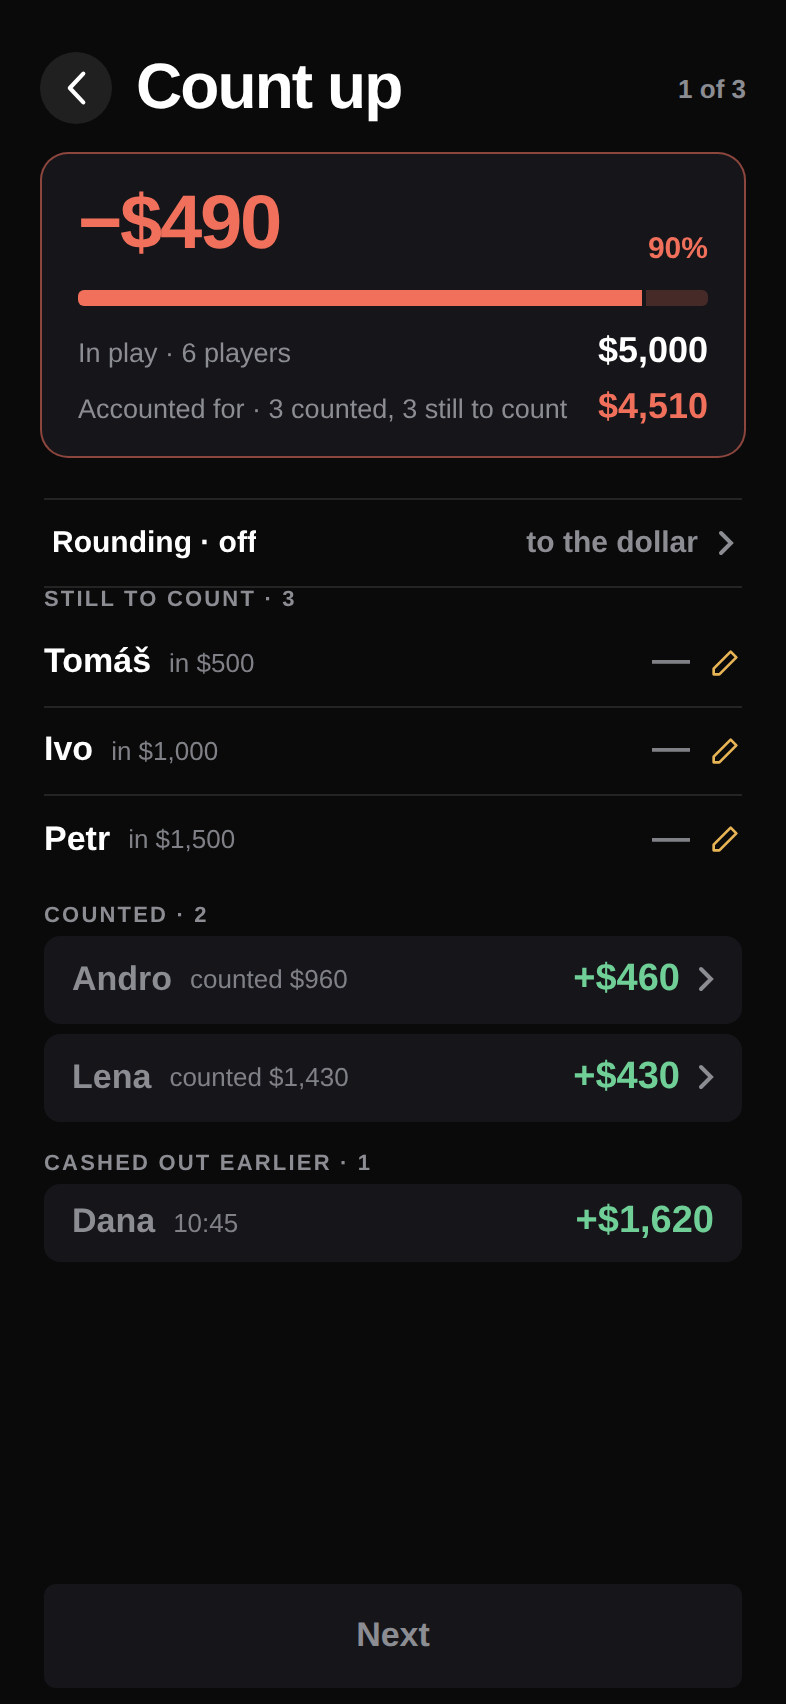
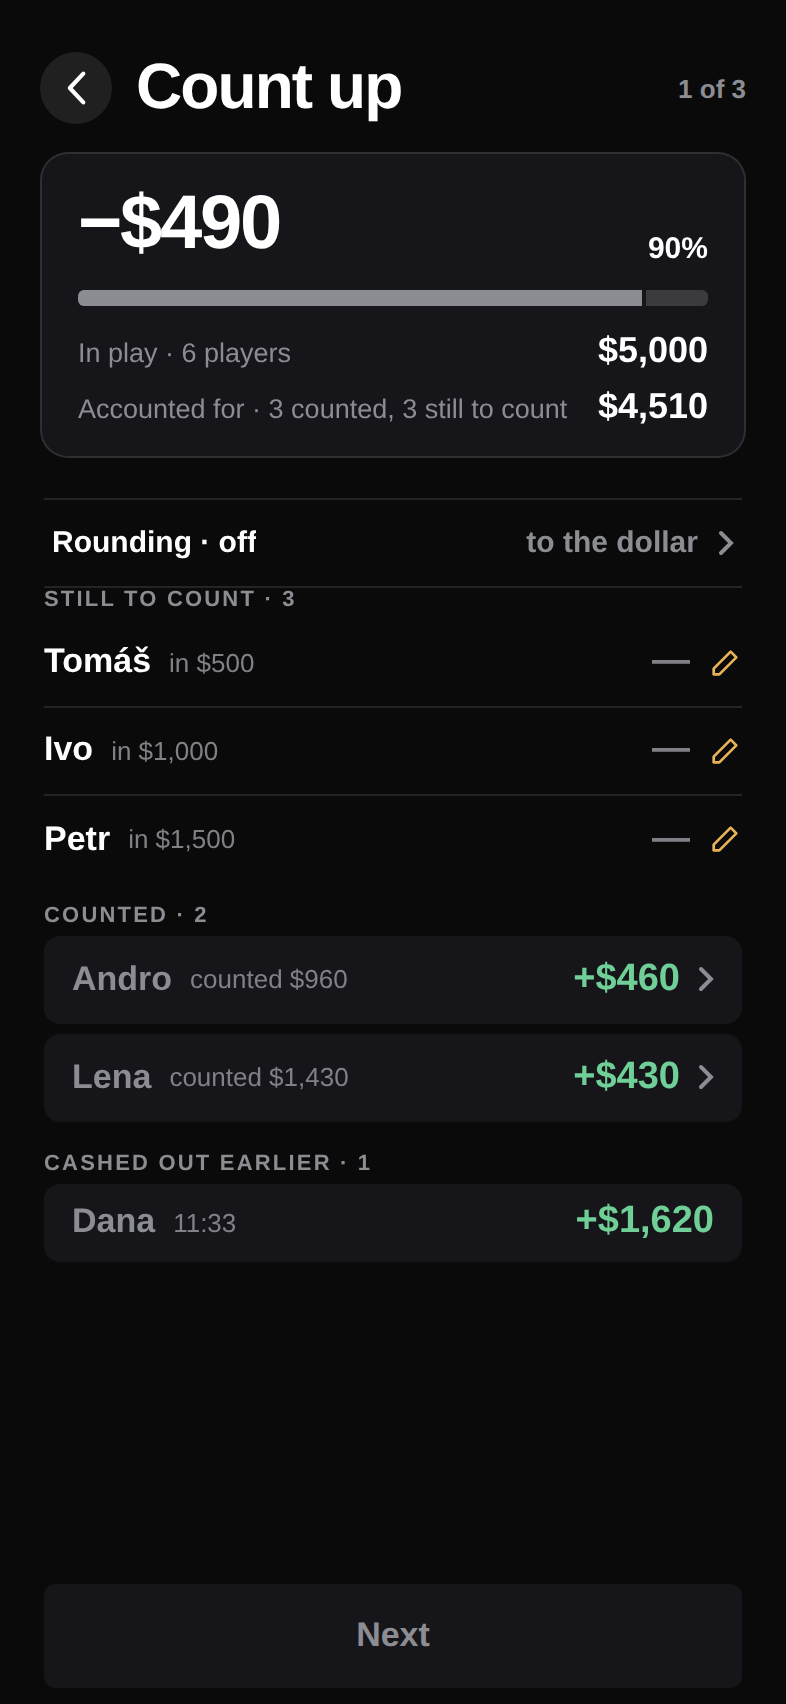
Re-photograph Count up on the end-flow board
That board landed on main while the colour change was being made, and it is a
photograph rather than a drawing — its own README says a figure that looks wrong
on it is wrong in the app, and that the fix for a stale frame is to re-run
ui-shots and copy the PNGs. So: shot-03 and shot-04 are the neutral block, taken
off the current build. shot-07 is unchanged, because the balanced state is.

Three captions went with them — the CountUp artboard's two frame annotations and
its deviations note, the Findings artboard, and the README's list of what has no
drawn frame. All three named the amber fourth state, which the neutral count
replaced.

Claude-Session: https://claude.ai/code/session_0151sWMrcMvX7rCdpAdUCmr7

diff --git a/design/board-game-end-flow/CountUp.dc.html b/design/board-game-end-flow/CountUp.dc.html
@@ -20,11 +20,11 @@
   <div style="display: flex; gap: 22px; align-items: flex-start; flex-shrink: 0">
     <div style="display: flex; flex-direction: column; gap: 9px; flex-shrink: 0; width: 393px">
       <img src="shot-03-count-up-empty.png" width="393" height="852" alt="" style="display: block; width: 393px; height: 852px; border-radius: 46px; box-shadow: 0 18px 44px rgba(11,11,15,.18)">
-      <div style="font: 500 12px/1.45 -apple-system, 'SF Pro Text', 'Figtree', sans-serif; color: #6C6C70; text-wrap: pretty">Nothing counted. Only Dana's cash-out is accounted for: <b>−$2,880 · 42%</b>.</div>
+      <div style="font: 500 12px/1.45 -apple-system, 'SF Pro Text', 'Figtree', sans-serif; color: #6C6C70; text-wrap: pretty">Nothing counted. Only Dana's cash-out is accounted for: <b>−$2,880 · 42%</b> — in plain text, because the count has not finished.</div>
     </div>
     <div style="display: flex; flex-direction: column; gap: 9px; flex-shrink: 0; width: 393px">
       <img src="shot-04-count-up.png" width="393" height="852" alt="" style="display: block; width: 393px; height: 852px; border-radius: 46px; box-shadow: 0 18px 44px rgba(11,11,15,.18)">
-      <div style="font: 500 12px/1.45 -apple-system, 'SF Pro Text', 'Figtree', sans-serif; color: #6C6C70; text-wrap: pretty">Two stacks in. <b>−$490 · 90%</b>, and all three groups on screen at once.</div>
+      <div style="font: 500 12px/1.45 -apple-system, 'SF Pro Text', 'Figtree', sans-serif; color: #6C6C70; text-wrap: pretty">Two stacks in. <b>−$490 · 90%</b>, still uncoloured, and all three groups on screen at once.</div>
     </div>
     <div style="display: flex; flex-direction: column; gap: 9px; flex-shrink: 0; width: 393px">
       <img src="shot-07-count-up-balanced.png" width="393" height="852" alt="" style="display: block; width: 393px; height: 852px; border-radius: 46px; box-shadow: 0 18px 44px rgba(11,11,15,.18)">
@@ -64,7 +64,7 @@
       </div>
       <div style="display: flex; flex-direction: column; gap: 5px; padding: 11px 13px; border-radius: 9px; background: rgba(138,90,0,.12)">
         <div style="font: 700 9.5px -apple-system, 'SF Pro Text', 'Figtree', sans-serif; letter-spacing: .11em; text-transform: uppercase; color: #8A5A00">Two deliberate deviations · docs/screens.md</div>
-        <div style="font: 400 12px/1.55 -apple-system, 'SF Pro Text', 'Figtree', sans-serif; color: #3F4149; text-wrap: pretty"><b>In play · 6 players</b>, not the cut's <i>Bought in</i> — one word for that figure app-wide was the owner's instruction of 5 September. And a fourth, amber state for a count that is not finished but whose figures happen to meet; the cut's three states are driven by the subtraction alone, and green there would call a night level with a stack still uncounted.</div>
+        <div style="font: 400 12px/1.55 -apple-system, 'SF Pro Text', 'Figtree', sans-serif; color: #3F4149; text-wrap: pretty"><b>In play · 6 players</b>, not the cut's <i>Bought in</i> — one word for that figure app-wide was the owner's instruction of 5 September. And <b>no colour at all until every stack is in</b> — the two frames above are plain text, not coral. The cut's three states are driven by the subtraction alone, so a count two stacks into six wears the colour for missing money over a night where nothing has gone wrong; the verdict colours arrive when there is a verdict. 6 September, on the owner's instruction, and it restores what rev 18 said of the block this one replaced.</div>
       </div>
       <div style="display: flex; flex-direction: column; gap: 5px; padding: 11px 13px; border-radius: 9px; background: rgba(12,13,15,.06)">
         <div style="font: 700 9.5px -apple-system, 'SF Pro Text', 'Figtree', sans-serif; letter-spacing: .11em; text-transform: uppercase; color: #4A4D55">Carries to E3 and E4</div>

diff --git a/design/board-game-end-flow/Findings.dc.html b/design/board-game-end-flow/Findings.dc.html
@@ -53,7 +53,7 @@
         <div style="width: 26px; height: 26px; border-radius: 13px; background: #0B0B0F; color: #FFFFFF; display: flex; align-items: center; justify-content: center; font: 800 12px -apple-system, 'SF Pro Text', 'Figtree', sans-serif; flex-shrink: 0">4</div>
         <div style="display: flex; flex-direction: column; gap: 7px; min-width: 0">
           <div style="font: 800 16px -apple-system, 'SF Pro Text', 'Figtree', sans-serif; color: #0B0B0F; letter-spacing: -.015em">Three things on this board have no drawn frame at all</div>
-          <div style="font: 400 13px/1.6 -apple-system, 'SF Pro Text', 'Figtree', sans-serif; color: #3F4149; text-wrap: pretty">E2's amber fourth state — a count that is not finished but whose figures happen to meet — is built and decided and drawn nowhere. Neither is the counted-row animation, which is specified to the millisecond in the 6 September README and cannot be photographed at all. And the block has no <b>light twin</b>: the cut draws its four frames in the dark theme only, which this board's bright-theme artboard is standing in for.</div>
+          <div style="font: 400 13px/1.6 -apple-system, 'SF Pro Text', 'Figtree', sans-serif; color: #3F4149; text-wrap: pretty">E2's neutral count — no colour on any figure in the block until every stack is in, which replaced the amber fourth state on 6 September — is built and decided and drawn nowhere. Neither is the counted-row animation, which is specified to the millisecond in the 6 September README and cannot be photographed at all. And the block has no <b>light twin</b>: the cut draws its four frames in the dark theme only, which this board's bright-theme artboard is standing in for.</div>
           <div style="font: 600 11px -apple-system, 'SF Pro Text', 'Figtree', sans-serif; color: #8E8E93">Count up · design/handoff-count-up-header/README.md, docs/screens.md — “what is still to ask for is the light twin of the new block”</div>
         </div>
       </div>

diff --git a/design/board-game-end-flow/README.md b/design/board-game-end-flow/README.md
@@ -98,7 +98,10 @@ figure on this board is one engine call and every one is right:
 3. **Two step counters, counting different things.** The wizard says `1 of 3 ·
    2 of 3 · 3 of 3` over Count up, Deductions and Settle up; the 1 September
    cut's flow is Count up → Settle up → the settled night.
-4. **Three things here have no drawn frame at all** — E2's amber fourth state,
+4. **Three things here have no drawn frame at all** — E2's neutral count (no
+   colour on any figure in the block until every stack is in, which replaced
+   the amber fourth state on 6 September and is what `shot-03` and `shot-04`
+   above now show),
    the counted-row animation (specified to the millisecond and unphotographable),
    and the **light twin** of the header block: the 6 September cut draws its four
    frames in the dark theme only, and `docs/screens.md` says asking for the light
